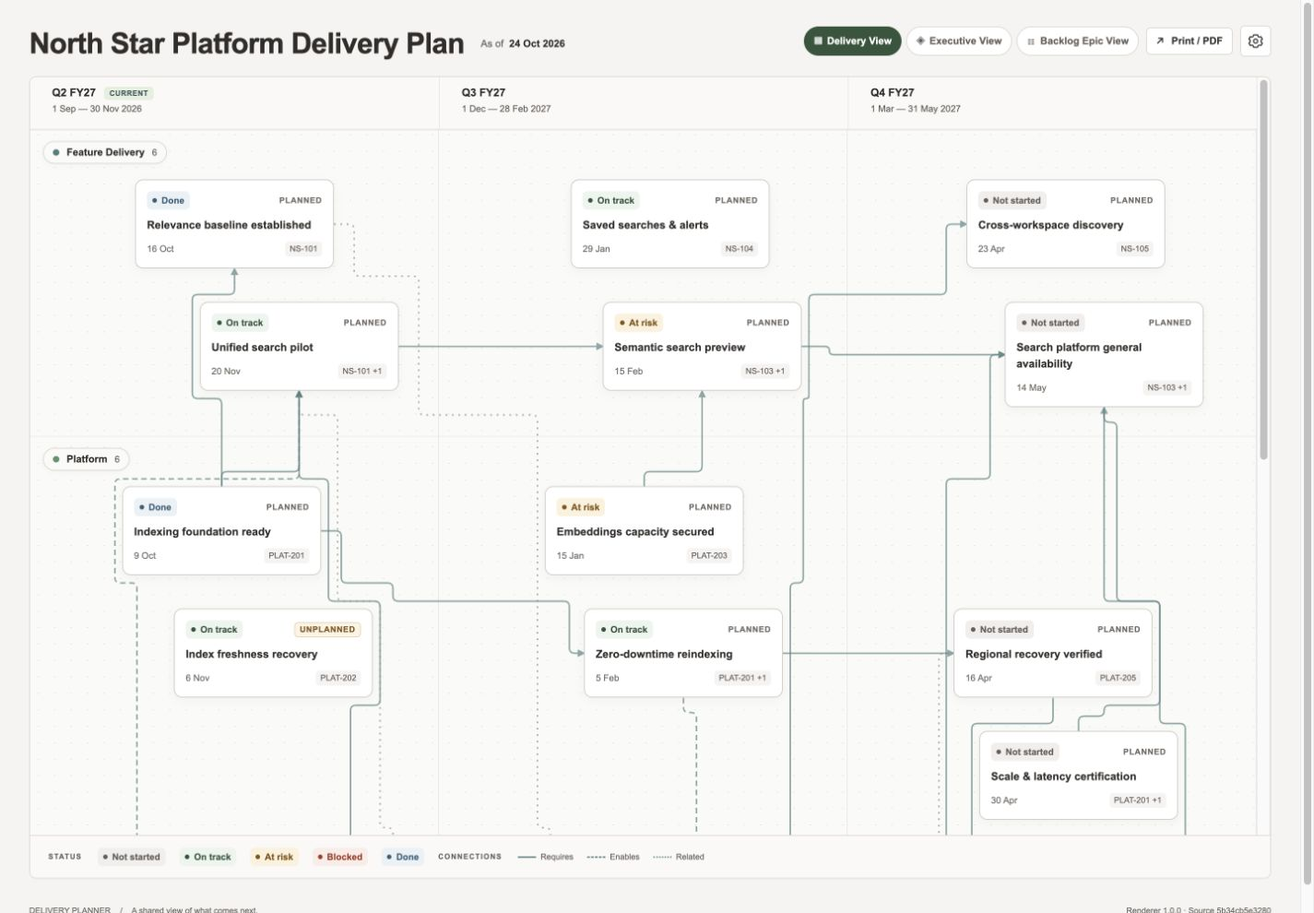
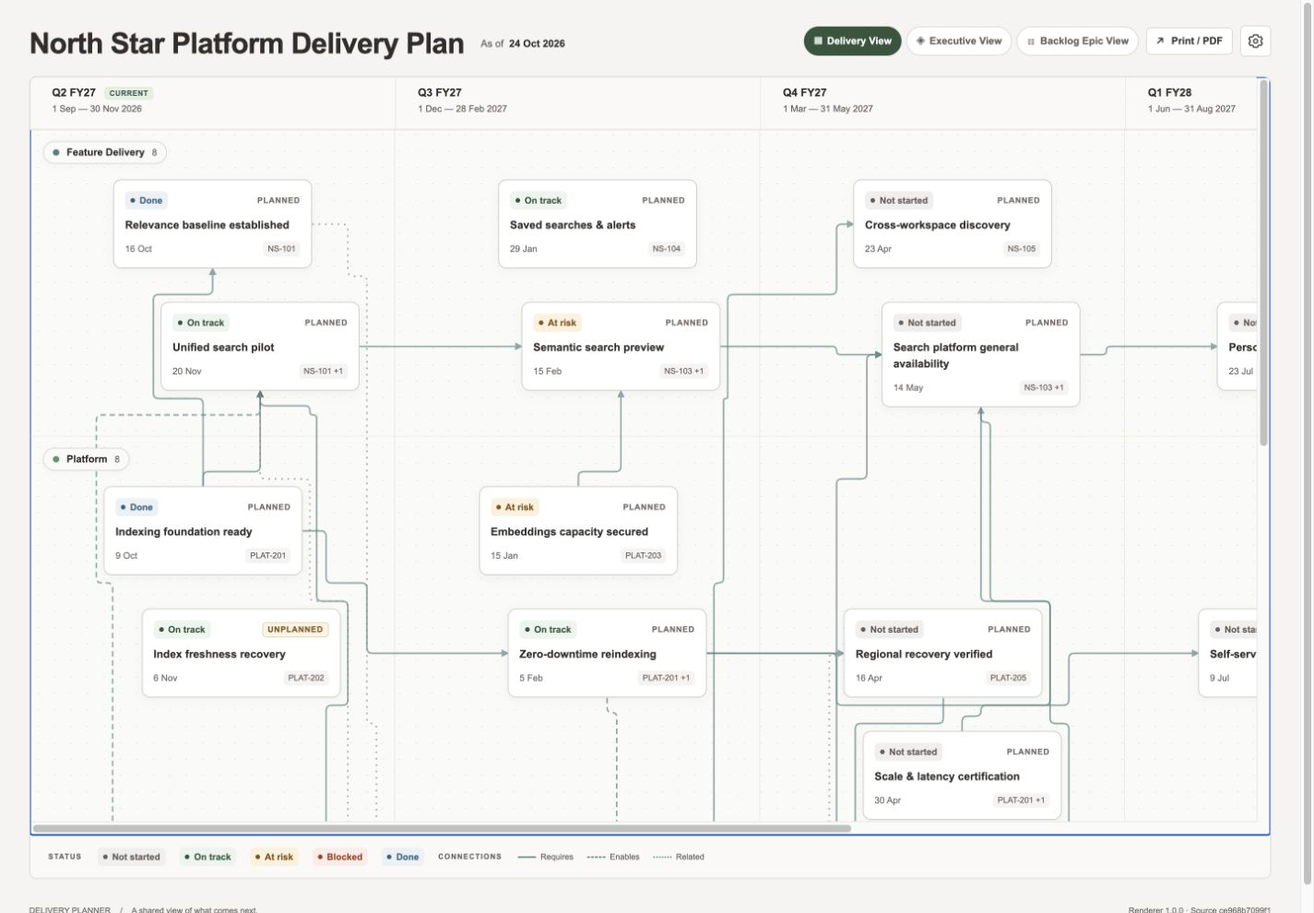
feat(planner): extend roadmap and add arrow-key navigation

diff --git a/Plans/north-star-platform/delivery_plan.html b/Plans/north-star-platform/delivery_plan.html
@@ -348,8 +348,8 @@ h1{font-size:28px}
     <div class="result-context" id="result-context" hidden><div id="filter-summary" class="filter-summary" aria-live="polite" hidden></div><button class="button selection-clear" id="clear-selection" type="button" hidden>Clear selection</button></div>
     <section id="view-content" role="tabpanel" tabindex="-1"></section>
     <details id="diagnostics" class="diagnostics"></details>
-    <footer class="page-footer"><span>DELIVERY PLANNER <span class="footer-divider">/</span> A shared view of what comes next.</span><span>Renderer 1.0.0 · Source 5b34cb5e3280</span></footer>
-    <noscript><section class="no-script"><h2>Milestone register</h2><p>Enable JavaScript for filters, interactive views, and dependency exploration. All data is embedded in this file.</p><article><h3>Relevance baseline established</h3><p>done · q2-fy27 · features</p><p>A repeatable evaluation suite covers the 50 most common search journeys.</p><p>Epics: NS-101</p></article><article><h3>Unified search pilot</h3><p>on_track · q2-fy27 · features</p><p>Two pilot cohorts can search projects and documents from one entry point.</p><p>Epics: NS-101, NS-102</p></article><article><h3>Semantic search preview</h3><p>at_risk · q3-fy27 · features</p><p>Pilot users can find relevant content using natural-language queries.</p><p>Epics: NS-103, PLAT-203</p></article><article><h3>Saved searches &amp; alerts</h3><p>on_track · q3-fy27 · features</p><p>Users can save recurring searches and receive a daily change digest.</p><p>Epics: NS-104</p></article><article><h3>Cross-workspace discovery</h3><p>not_started · q4-fy27 · features</p><p>Authorized users can discover content across linked workspaces.</p><p>Epics: NS-105</p></article><article><h3>Search platform general availability</h3><p>not_started · q4-fy27 · features</p><p>Search is ready for broad adoption with performance and security evidence.</p><p>Epics: NS-103, NS-106</p></article><article><h3>Indexing foundation ready</h3><p>done · q2-fy27 · platform</p><p>A repeatable ingestion pipeline supports the first three content sources.</p><p>Epics: PLAT-201</p></article><article><h3>Index freshness recovery</h3><p>on_track · q2-fy27 · platform</p><p>Backlogged documents return to the agreed freshness window after bursts.</p><p>Epics: PLAT-202</p></article><article><h3>Embeddings capacity secured</h3><p>at_risk · q3-fy27 · platform</p><p>Reserved compute supports semantic preview traffic and evaluation runs.</p><p>Epics: PLAT-203</p></article><article><h3>Zero-downtime reindexing</h3><p>on_track · q3-fy27 · platform</p><p>Indexes can be rebuilt without interrupting active search sessions.</p><p>Epics: PLAT-201, PLAT-204</p></article><article><h3>Regional recovery verified</h3><p>not_started · q4-fy27 · platform</p><p>A regional failure can be recovered within the agreed recovery objective.</p><p>Epics: PLAT-205</p></article><article><h3>Scale &amp; latency certification</h3><p>not_started · q4-fy27 · platform</p><p>Peak traffic meets the latency budget with documented capacity headroom.</p><p>Epics: PLAT-201, PLAT-206</p></article><article><h3>Permission-aware query model</h3><p>on_track · q2-fy27 · security</p><p>Pilot results respect document and project access permissions.</p><p>Epics: SEC-301</p></article><article><h3>Audit coverage restored</h3><p>done · q2-fy27 · security</p><p>Administrative index actions produce complete, traceable audit events.</p><p>Epics: SEC-302</p></article><article><h3>Tenant isolation controls</h3><p>blocked · q3-fy27 · security</p><p>Cross-workspace access is bounded by an agreed tenant-isolation contract.</p><p>Epics: SEC-303</p></article><article><h3>Independent security review</h3><p>on_track · q3-fy27 · security</p><p>Design and test evidence are reviewed before broad rollout.</p><p>Epics: SEC-304</p></article><article><h3>Access controls certified</h3><p>not_started · q3-fy27 · security</p><p>Release evidence confirms permitted access and prevents cross-tenant disclosure.</p><p>Epics: SEC-303, SEC-304</p></article><article><h3>Retention &amp; deletion controls</h3><p>on_track · q2-fy27 · security</p><p>Expired content is removed from source indexes and derived representations.</p><p>Epics: SEC-305</p></article><article><h3>Service ownership established</h3><p>done · q2-fy27 · adoption</p><p>Service owners, alert routes, and support boundaries are agreed.</p><p>Epics: None</p></article><article><h3>Pilot cohorts onboarded</h3><p>done · q2-fy27 · adoption</p><p>Two fictional cohorts have training, feedback channels, and success criteria.</p><p>Epics: E4101</p></article><article><h3>Client SDK migration</h3><p>at_risk · q3-fy27 · adoption</p><p>Pilot clients adopt a versioned API and retire their legacy search calls.</p><p>Epics: E4102, NS-102</p></article><article><h3>Recovery runbooks rehearsed</h3><p>blocked · q3-fy27 · adoption</p><p>On-call engineers can execute recovery steps without specialist support.</p><p>Epics: E4103</p></article><article><h3>First adoption wave</h3><p>not_started · q4-fy27 · adoption</p><p>The first wider cohort adopts the platform with measured support readiness.</p><p>Epics: E4101, E4104</p></article><article><h3>Operational handover complete</h3><p>not_started · q4-fy27 · adoption</p><p>Steady-state teams own service health, recovery, and continuous improvement.</p><p>Epics: E4103, E4104</p></article></section></noscript>
+    <footer class="page-footer"><span>DELIVERY PLANNER <span class="footer-divider">/</span> A shared view of what comes next.</span><span>Renderer 1.0.0 · Source ce968b7099f1</span></footer>
+    <noscript><section class="no-script"><h2>Milestone register</h2><p>Enable JavaScript for filters, interactive views, and dependency exploration. All data is embedded in this file.</p><article><h3>Relevance baseline established</h3><p>done · q2-fy27 · features</p><p>A repeatable evaluation suite covers the 50 most common search journeys.</p><p>Epics: NS-101</p></article><article><h3>Unified search pilot</h3><p>on_track · q2-fy27 · features</p><p>Two pilot cohorts can search projects and documents from one entry point.</p><p>Epics: NS-101, NS-102</p></article><article><h3>Semantic search preview</h3><p>at_risk · q3-fy27 · features</p><p>Pilot users can find relevant content using natural-language queries.</p><p>Epics: NS-103, PLAT-203</p></article><article><h3>Saved searches &amp; alerts</h3><p>on_track · q3-fy27 · features</p><p>Users can save recurring searches and receive a daily change digest.</p><p>Epics: NS-104</p></article><article><h3>Cross-workspace discovery</h3><p>not_started · q4-fy27 · features</p><p>Authorized users can discover content across linked workspaces.</p><p>Epics: NS-105</p></article><article><h3>Search platform general availability</h3><p>not_started · q4-fy27 · features</p><p>Search is ready for broad adoption with performance and security evidence.</p><p>Epics: NS-103, NS-106</p></article><article><h3>Indexing foundation ready</h3><p>done · q2-fy27 · platform</p><p>A repeatable ingestion pipeline supports the first three content sources.</p><p>Epics: PLAT-201</p></article><article><h3>Index freshness recovery</h3><p>on_track · q2-fy27 · platform</p><p>Backlogged documents return to the agreed freshness window after bursts.</p><p>Epics: PLAT-202</p></article><article><h3>Embeddings capacity secured</h3><p>at_risk · q3-fy27 · platform</p><p>Reserved compute supports semantic preview traffic and evaluation runs.</p><p>Epics: PLAT-203</p></article><article><h3>Zero-downtime reindexing</h3><p>on_track · q3-fy27 · platform</p><p>Indexes can be rebuilt without interrupting active search sessions.</p><p>Epics: PLAT-201, PLAT-204</p></article><article><h3>Regional recovery verified</h3><p>not_started · q4-fy27 · platform</p><p>A regional failure can be recovered within the agreed recovery objective.</p><p>Epics: PLAT-205</p></article><article><h3>Scale &amp; latency certification</h3><p>not_started · q4-fy27 · platform</p><p>Peak traffic meets the latency budget with documented capacity headroom.</p><p>Epics: PLAT-201, PLAT-206</p></article><article><h3>Permission-aware query model</h3><p>on_track · q2-fy27 · security</p><p>Pilot results respect document and project access permissions.</p><p>Epics: SEC-301</p></article><article><h3>Audit coverage restored</h3><p>done · q2-fy27 · security</p><p>Administrative index actions produce complete, traceable audit events.</p><p>Epics: SEC-302</p></article><article><h3>Tenant isolation controls</h3><p>blocked · q3-fy27 · security</p><p>Cross-workspace access is bounded by an agreed tenant-isolation contract.</p><p>Epics: SEC-303</p></article><article><h3>Independent security review</h3><p>on_track · q3-fy27 · security</p><p>Design and test evidence are reviewed before broad rollout.</p><p>Epics: SEC-304</p></article><article><h3>Access controls certified</h3><p>not_started · q3-fy27 · security</p><p>Release evidence confirms permitted access and prevents cross-tenant disclosure.</p><p>Epics: SEC-303, SEC-304</p></article><article><h3>Retention &amp; deletion controls</h3><p>on_track · q2-fy27 · security</p><p>Expired content is removed from source indexes and derived representations.</p><p>Epics: SEC-305</p></article><article><h3>Service ownership established</h3><p>done · q2-fy27 · adoption</p><p>Service owners, alert routes, and support boundaries are agreed.</p><p>Epics: None</p></article><article><h3>Pilot cohorts onboarded</h3><p>done · q2-fy27 · adoption</p><p>Two fictional cohorts have training, feedback channels, and success criteria.</p><p>Epics: E4101</p></article><article><h3>Client SDK migration</h3><p>at_risk · q3-fy27 · adoption</p><p>Pilot clients adopt a versioned API and retire their legacy search calls.</p><p>Epics: E4102, NS-102</p></article><article><h3>Recovery runbooks rehearsed</h3><p>blocked · q3-fy27 · adoption</p><p>On-call engineers can execute recovery steps without specialist support.</p><p>Epics: E4103</p></article><article><h3>First adoption wave</h3><p>not_started · q4-fy27 · adoption</p><p>The first wider cohort adopts the platform with measured support readiness.</p><p>Epics: E4101, E4104</p></article><article><h3>Operational handover complete</h3><p>not_started · q4-fy27 · adoption</p><p>Steady-state teams own service health, recovery, and continuous improvement.</p><p>Epics: E4103, E4104</p></article><article><h3>Personalised discovery preview</h3><p>not_started · q1-fy28 · features</p><p>Pilot users receive relevant suggestions based on their explicitly chosen interests.</p><p>Epics: NS-106</p></article><article><h3>Self-service source onboarding</h3><p>not_started · q1-fy28 · platform</p><p>Partner teams can register and validate a new content source without platform intervention.</p><p>Epics: PLAT-207</p></article><article><h3>Continuous access review</h3><p>not_started · q1-fy28 · security</p><p>Service owners receive evidence of access changes and resolve exceptions through a review workflow.</p><p>Epics: SEC-306</p></article><article><h3>Second adoption wave</h3><p>not_started · q1-fy28 · adoption</p><p>Three additional fictional customer cohorts adopt the platform with measured activation and support outcomes.</p><p>Epics: E4105</p></article><article><h3>Multilingual discovery launch</h3><p>not_started · q2-fy28 · features</p><p>Users can discover approved content across the first three supported languages.</p><p>Epics: NS-107</p></article><article><h3>Adaptive capacity controls</h3><p>not_started · q2-fy28 · platform</p><p>The platform adjusts capacity to demand while respecting service latency and cost budgets.</p><p>Epics: PLAT-208</p></article><article><h3>Automated compliance evidence</h3><p>not_started · q2-fy28 · security</p><p>Reviewers can retrieve traceable access and retention evidence without manual report assembly.</p><p>Epics: SEC-307</p></article><article><h3>Adoption value review</h3><p>not_started · q2-fy28 · adoption</p><p>Sponsors review adoption, search success and operational cost evidence to agree the next investment priorities.</p><p>Epics: E4106</p></article></section></noscript>
   </main>
   <dialog id="settings-dialog" class="settings-dialog" aria-labelledby="settings-title" aria-describedby="settings-description">
     <div class="settings-head"><div><h2 id="settings-title">Display settings</h2><p id="settings-description">Choose the extra context you want to see.</p></div><button class="close-detail" id="close-settings" type="button" aria-label="Close display settings" autofocus>×</button></div>
@@ -368,7 +368,7 @@ h1{font-size:28px}
     <div class="detail-body"><p id="health-note"></p></div>
   </dialog>
   <dialog id="milestone-dialog" aria-labelledby="detail-title"><div id="detail-content"></div></dialog>
[2 lines of base64/hex data omitted]
   <script>/* Pure geometry shared by the portable renderer and Node regression tests. */
 const PlannerGraph = (() => {
   const CARD_WIDTH = 218, GAP = 36, HEADER = 58;
@@ -516,7 +516,7 @@ if (typeof module !== 'undefined') module.exports = PlannerGraph;
     const visible = new Set(items.map(m => m.id));
     const printLinks = plan.dependencies.filter(e => visible.has(e.from) || visible.has(e.to));
     return `<section class="board-section" aria-label="${executive ? 'Strategic milestones' : 'Delivery roadmap'}">
-      <div class="board-scroll" id="board-scroll" role="region" aria-label="Roadmap timeline" tabindex="0"><div class="roadmap" id="roadmap" style="--cols:${plan.periods.length}"><div class="board-head">${heads}</div>${rows}${items.map(m=>card(m,true)).join('')}<svg class="dependency-layer" id="dependency-layer" aria-hidden="true"></svg></div></div>
+      <div class="board-scroll" id="board-scroll" role="region" aria-label="Roadmap timeline" aria-description="Use the four arrow keys to scroll the plan. Tab moves between milestones; Enter opens details." tabindex="0"><div class="roadmap" id="roadmap" style="--cols:${plan.periods.length}"><div class="board-head">${heads}</div>${rows}${items.map(m=>card(m,true)).join('')}<svg class="dependency-layer" id="dependency-layer" aria-hidden="true"></svg></div></div>
       <div class="print-roadmap" aria-hidden="true">${items.map(m=>`<article><p>${escape(streams[m.stream])} · ${escape(periods[m.target_period].label)}</p>${card(m)}</article>`).join('')}</div>
       ${statusLegend()}<div class="print-dependencies"><strong>Dependencies (including linked milestones outside this view)</strong>${printLinks.map(e => `<div>${escape(byId[e.from].title)} ${e.kind === 'relates_to' ? '↔' : '→'} ${escape(byId[e.to].title)} · ${escape(kinds[e.kind])}</div>`).join('')}</div></section>`;
   }
@@ -581,7 +581,17 @@ if (typeof module !== 'undefined') module.exports = PlannerGraph;
     if ($('roadmap')) {
       observer = new ResizeObserver(requestDraw);observer.observe($('board-scroll'));
       document.querySelectorAll('.graph-node').forEach(el=>observer.observe(el));
-      $('board-scroll').addEventListener('scroll',requestDraw,{passive:true});
+      const scroll=$('board-scroll');
+      scroll.addEventListener('scroll',requestDraw,{passive:true});
+      scroll.addEventListener('pointerdown',event=>{
+        if(!event.target.closest('button,a,input,select,textarea,summary'))scroll.focus({preventScroll:true});
+      });
+      scroll.addEventListener('keydown',event=>{
+        if(event.altKey||event.ctrlKey||event.metaKey||event.shiftKey||event.defaultPrevented)return;
+        const delta={ArrowLeft:[-80,0],ArrowRight:[80,0],ArrowUp:[0,-80],ArrowDown:[0,80]}[event.key];
+        if(!delta)return;
+        event.preventDefault();scroll.scrollBy({left:delta[0],top:delta[1],behavior:'instant'});
+      });
     }
     applyDisplay();
   }

diff --git a/Skills/delivery-planner/assets/templates/plan.js b/Skills/delivery-planner/assets/templates/plan.js
@@ -62,7 +62,7 @@
     const visible = new Set(items.map(m => m.id));
     const printLinks = plan.dependencies.filter(e => visible.has(e.from) || visible.has(e.to));
     return `<section class="board-section" aria-label="${executive ? 'Strategic milestones' : 'Delivery roadmap'}">
-      <div class="board-scroll" id="board-scroll" role="region" aria-label="Roadmap timeline" tabindex="0"><div class="roadmap" id="roadmap" style="--cols:${plan.periods.length}"><div class="board-head">${heads}</div>${rows}${items.map(m=>card(m,true)).join('')}<svg class="dependency-layer" id="dependency-layer" aria-hidden="true"></svg></div></div>
+      <div class="board-scroll" id="board-scroll" role="region" aria-label="Roadmap timeline" aria-description="Use the four arrow keys to scroll the plan. Tab moves between milestones; Enter opens details." tabindex="0"><div class="roadmap" id="roadmap" style="--cols:${plan.periods.length}"><div class="board-head">${heads}</div>${rows}${items.map(m=>card(m,true)).join('')}<svg class="dependency-layer" id="dependency-layer" aria-hidden="true"></svg></div></div>
       <div class="print-roadmap" aria-hidden="true">${items.map(m=>`<article><p>${escape(streams[m.stream])} · ${escape(periods[m.target_period].label)}</p>${card(m)}</article>`).join('')}</div>
       ${statusLegend()}<div class="print-dependencies"><strong>Dependencies (including linked milestones outside this view)</strong>${printLinks.map(e => `<div>${escape(byId[e.from].title)} ${e.kind === 'relates_to' ? '↔' : '→'} ${escape(byId[e.to].title)} · ${escape(kinds[e.kind])}</div>`).join('')}</div></section>`;
   }
@@ -127,7 +127,17 @@
     if ($('roadmap')) {
       observer = new ResizeObserver(requestDraw);observer.observe($('board-scroll'));
       document.querySelectorAll('.graph-node').forEach(el=>observer.observe(el));
-      $('board-scroll').addEventListener('scroll',requestDraw,{passive:true});
+      const scroll=$('board-scroll');
+      scroll.addEventListener('scroll',requestDraw,{passive:true});
+      scroll.addEventListener('pointerdown',event=>{
+        if(!event.target.closest('button,a,input,select,textarea,summary'))scroll.focus({preventScroll:true});
+      });
+      scroll.addEventListener('keydown',event=>{
+        if(event.altKey||event.ctrlKey||event.metaKey||event.shiftKey||event.defaultPrevented)return;
+        const delta={ArrowLeft:[-80,0],ArrowRight:[80,0],ArrowUp:[0,-80],ArrowDown:[0,80]}[event.key];
+        if(!delta)return;
+        event.preventDefault();scroll.scrollBy({left:delta[0],top:delta[1],behavior:'instant'});
+      });
     }
     applyDisplay();
   }

diff --git a/Skills/delivery-planner/tests/test_engine.py b/Skills/delivery-planner/tests/test_engine.py
@@ -37,7 +37,7 @@ def test_schema_and_realistic_example():
     Draft202012Validator.check_schema(json.loads((SKILL_ROOT/'references/plan.schema.json').read_text()))
     result = read_plan(EXAMPLE)
     assert result.valid and not result.diagnostics
-    assert len(result.data['milestones']) == 24
+    assert len(result.data['milestones']) == 32
     assert {m['status'] for m in result.data['milestones']} == {'not_started','on_track','at_risk','blocked','done'}
     assert {e['kind'] for e in result.data['dependencies']} == {'requires','enables','relates_to'}
 

diff --git a/docs/verification.md b/docs/verification.md
@@ -9,7 +9,7 @@ Verified on 24 October 2026.
 - [Skill entrypoint](../Skills/delivery-planner/SKILL.md)
 - [Implementation specification](delivery-planner-spec.md)
 
-The maintained example has 24 milestones, four streams, six teams, three explicitly dated periods, 21 unique epic keys, and 21 dependency relationships. It includes all five statuses, all three dependency kinds, shared epics, three unplanned milestones, one milestone without an epic, crowded cells, and an empty stream/period cell. Its reporting date is fixed at 24 October 2026. All content is fictional.
+The maintained example has 32 milestones, four streams, six teams, five explicitly dated periods (Q2 FY27 through Q2 FY28), 28 unique epic keys, and 29 dependency relationships. It includes all five statuses, all three dependency kinds, shared epics, three unplanned milestones, one milestone without an epic, crowded cells, and an empty stream/period cell. Its reporting date is fixed at 24 October 2026. All content is fictional.
 
 ## Run locally
 
@@ -49,25 +49,25 @@ The skill package also passes the bundled skill validator. JavaScript passes `no
 
 Inspected the generated HTML through a localhost-only server in the Codex browser:
 
-- Delivery View displays 24 compact HTML nodes across dated periods and four full-width stream lanes. Floating stream labels replace the dedicated left column; subtle guides replace boxed cells.
-- Show dependencies renders all 21 relationships as rounded orthogonal paths, with no invalid SVG coordinates. Geometry tests verify routes do not intersect unrelated card rectangles. Filtering to PLAT-201 leaves three nodes and one visible connection.
+- Delivery View displays 32 compact HTML nodes across dated periods and four full-width stream lanes. Floating stream labels replace the dedicated left column; subtle guides replace boxed cells.
+- Show dependencies renders all 29 relationships as rounded orthogonal paths, with no invalid SVG coordinates. Geometry tests verify routes do not intersect unrelated card rectangles. Filtering to PLAT-201 leaves three nodes and one visible connection.
 - Milestone details show outcomes, owners, exact targets, epic keys, and incoming/outgoing relationships.
 - Selected cards highlight direct neighbours and dim unrelated nodes; selection can be cleared; search with no matches produces an empty result; Reset restores the complete view.
-- Executive View displays eight selected milestones and all five delivery exceptions, including one outside the executive roadmap. Filtering to Blocked leaves one executive roadmap card while retaining all five full-plan exceptions.
-- Backlog Epic View contains 21 epic groups plus the unlinked-milestone group. Filtering to PLAT-201 produces one group with three milestones across three periods, with unique counts.
+- Executive View displays ten selected milestones and all five delivery exceptions, including one outside the executive roadmap. Filtering to Blocked leaves one executive roadmap card while retaining all five full-plan exceptions.
+- Backlog Epic View contains 28 epic groups plus the unlinked-milestone group. Filtering to PLAT-201 produces one group with three milestones across three periods, with unique counts.
 - Keyboard arrow navigation switches tabs. Native controls and modal focus handling are available.
 - Desktop and 390-pixel viewport checks showed no page-wide horizontal overflow. The narrow roadmap scrolls within its own container. At 390 pixels, a 120-pixel horizontal scroll kept the stream label 14 pixels inside the viewport edge.
 - Redwood styling uses warm neutrals, a compact title, filled selected view chips, and consistent status badges. View chips, Print / PDF, and the settings icon sit at the top-right beside the title; the reporting date sits immediately right of programme health (or remains alone when health is hidden). Show dependencies is in Display settings. The dark banner and office branding have been removed.
 - Programme health, count cards, search/filters, the summary, and the inactive result strip are hidden on initial load. When enabled, programme health appears beside the title as a 32-pixel-high badge.
 - Display settings independently enables all four optional panels across the three views. Show all enables all five settings, including dependency lines. Hide all disables them; a selected milestone can still show its direct connections until selection is cleared. Close, Done, and Escape dismiss the overlay and restore focus to its trigger. Reload resets the four panel settings and restores the YAML dependency preference (checked in the maintained example).
-- Hiding the controls with PLAT-201 selected preserves the one-epic, three-milestone result and its visible Clear filters action. Clearing restores all 22 groups (21 epic groups plus unlinked milestones) and hides the inactive result strip.
-- Dependency display still renders 21 valid relationships after enabling count cards. Selecting and clearing a milestone correctly shows and hides the selection summary.
+- Hiding the controls with PLAT-201 selected preserves the one-epic, three-milestone result and its visible Clear filters action. Clearing restores all 29 groups (28 epic groups plus unlinked milestones) and hides the inactive result strip.
+- Dependency display still renders 29 valid relationships after enabling count cards. Selecting and clearing a milestone correctly shows and hides the selection summary.
 - Delivery and Executive roadmaps start directly with period headings. Show dependencies is in Settings; Clear selection sits beside selection context. Dependency state survives view switches. Clearing a selection returns focus to the view content and hides the inactive context row.
 - The compact toolbar and settings overlay were inspected at a 390-pixel viewport width. The dialog fits inside the viewport and the page has no horizontal overflow.
-- The graph uses existing normal scrolling; pan/zoom and drag editing are not implemented.
+- The graph supports normal scrolling and all four arrow keys while the roadmap or a milestone has focus. At 1440 pixels, the five-period surface is 2000 pixels wide inside a 1344-pixel viewport. Right/Down scroll to (80, 80); Left/Up return to (0, 0). The same movement works at 390 pixels without page overflow. Clicking empty roadmap space focuses it; tab navigation and other controls keep their own keyboard behavior. Zoom and drag editing are not implemented.
 - Print / PDF and Settings align at the top-right on desktop. At 390 pixels they sit above the title without overlap; the health badge wraps below the title, and dismissing settings returns focus to its relocated button.
 - Clicking programme health opens its full assessment. Close and Escape dismiss the dialog, and Escape returns focus to the badge. At 390 pixels the assessment dialog fits inside the viewport (337 pixels wide), with no page-wide horizontal overflow. Dependency lines still render after the header change.
-- At 1920 pixels, the date is 10 pixels to the right of the health badge. At 390 pixels both remain together below the title without page-wide horizontal overflow. The date remains visible with health hidden. Show all renders all 21 dependency lines; Hide all followed by Clear selection removes the lines and selection context.
+- At 1920 pixels, the date is 10 pixels to the right of the health badge. At 390 pixels both remain together below the title without page-wide horizontal overflow. The date remains visible with health hidden. Show all renders all 29 dependency lines; Hide all followed by Clear selection removes the lines and selection context.
 - Milestone overlays measure 520 × 680 pixels at a 1440 × 1000 viewport. Scrolling the body leaves the heading and footer fixed. At 390 × 844 the overlay fits inside the viewport, with accessible close/actions; Settings is capped at 80% viewport height with its footer visible.
 - No JavaScript errors were reported during the inspected interactions.
 

diff --git a/docs/delivery-planner-spec.md b/docs/delivery-planner-spec.md
@@ -351,7 +351,7 @@ Maintain these styles in the shared renderer templates, so every generated plan 
 - Position nodes deterministically within their target period using target dates when present; use stable source order for undated items and ties. Horizontal placement indicates order within a period, not an exact day-scale axis. Show the actual target date on the node.
 - Pack nodes into non-overlapping positions using measured card heights and spacing. Use available predecessor positions to align related milestones within a stream. Filtering may compact the arrangement. Never infer or change delivery dates from layout.
 - Show compact nodes with title, status, scope, target date/period, and epic summary. Keep outcome and ownership in accessible details. Backlog Epic View retains its detailed cards.
-- Keep normal scrolling and keyboard access. Pan/zoom, stream collapse, and drag-to-edit are future enhancements; this iteration does not persist user positions.
+- Support normal scrolling and all four arrow keys when the roadmap or a milestone is focused. Each arrow scrolls its axis by 80 pixels; modified keys and controls outside the roadmap retain their normal behavior. Clicking empty roadmap space focuses it without moving the viewport. Zoom, stream collapse, and drag-to-edit are future enhancements; this iteration does not persist user positions.
 - Start the board directly with period headings. Keep Show dependencies in Display settings and Clear selection beside the visible selection summary, without a separate roadmap title/subtitle bar. The dependency preference applies to Delivery and Executive roadmaps and is retained while visiting Backlog Epic View. Clearing selection returns focus to the view content.
 - Show milestone title, status, planned/unplanned tag, owner team, and related epic keys on cards or in accessible details depending on available space.
 - Offer filters for stream, owner/contributing team, status, tag, and epic.
@@ -436,12 +436,12 @@ The maintained example should contain:
 - Three explicit fiscal periods: Q2 FY27 through Q4 FY27, with the sample June–May fiscal convention documented in YAML comments.
 - Four streams: Feature Delivery, Platform, Security, and Adoption & Operations.
 - Five or six fictional teams with contributions across streams.
-- Approximately 20–24 milestones with meaningful outcome descriptions and believable sequencing.
+- Approximately 32 milestones with meaningful outcome descriptions and believable sequencing.
 - Every supported milestone status and both planned/unplanned tags.
 - A small amount of unplanned work, such as a relevance regression or an infrastructure remediation, with visible impact and explanation.
 - All three relationship kinds, including cross-team, cross-stream, same-period, and cross-period connections. Keep the hard prerequisite graph acyclic.
 - Synthetic Jira and Rally epic keys stored only in milestone `epic_ids`; one milestone associated with multiple epics; one epic spanning multiple milestones and periods; and one milestone without an epic. No separate epic definitions are needed.
-- Roughly six to eight executive-visible milestones, plus substantive highlights, changes, risks, and open/resolved decisions.
+- Roughly ten executive-visible milestones, plus substantive highlights, changes, risks, and open/resolved decisions.
 - A mix of short and long card titles and several crowded/empty cells to exercise realistic layouts.
 - An explicit reporting date chosen to make the depicted states coherent and reproducible.
 
